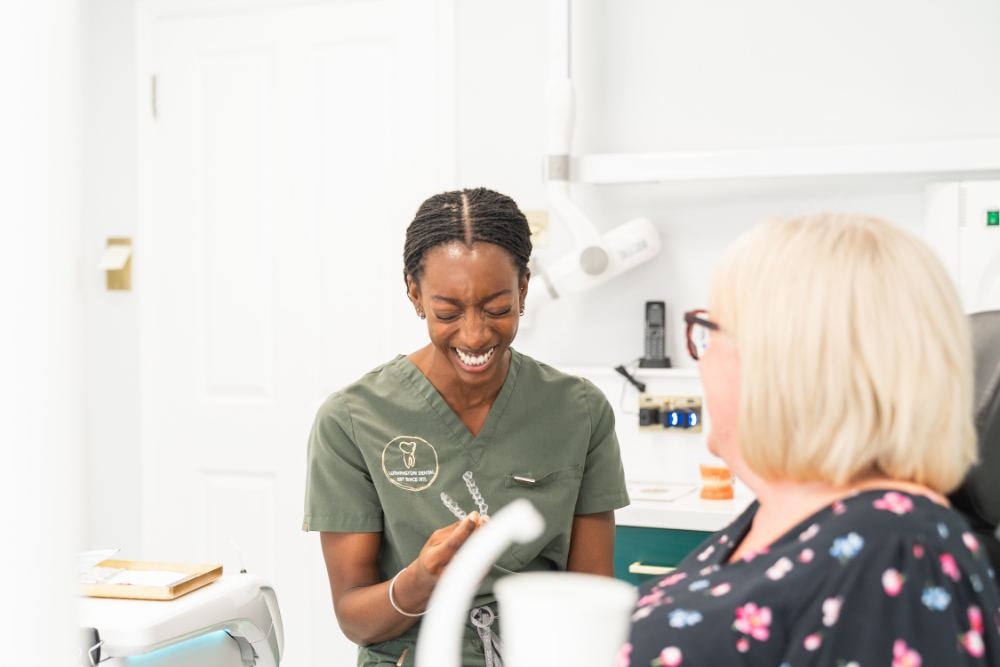
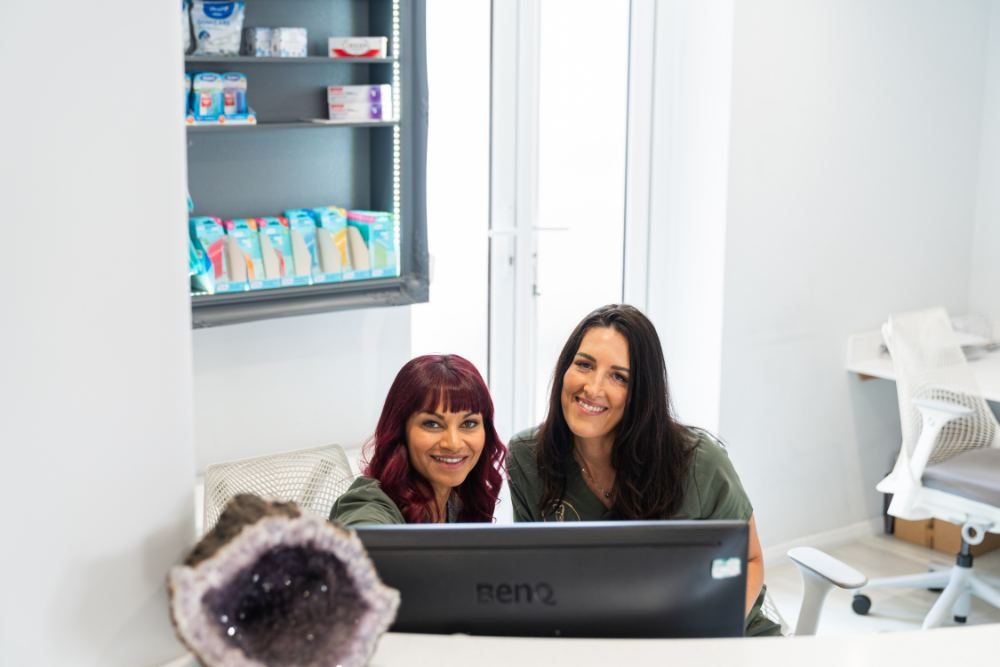
Refresh smile-page imagery: two new problem cards, reception photo in included
- Is-this-you cards: keep the mirror scene and male consult from the
  implant campaign; replace the two teal-room shots with fresh frames
  (patient and clinician smiling at the screen; patient laughing with
  a hand mirror)
- What's-included photo swapped to the welcoming reception scene

Claude-Session: https://claude.ai/code/session_01JNBacRkaEygM8B1GmyLFjD

diff --git a/smile-makeover.html b/smile-makeover.html
@@ -937,14 +937,14 @@ html.js.can-motion .anim.in .rule-draw, html.js.can-motion .in .rule-draw{ trans
           </div>
         </div>
         <div class="stack-card anim" style="--d:180ms">
-          <div class="media-slot" data-file="assets/problem-4.jpg"><img src="assets/problem-4.jpg" alt="A relaxed patient chatting with her clinician in the treatment room"></div>
+          <div class="media-slot" data-file="assets/smile-problem-3.jpg"><img src="assets/smile-problem-3.jpg" alt="A patient and clinician smiling together at her smile plan on screen"></div>
           <div class="card-body">
             <h3>A little stained or chipped</h3>
             <p>Straightening is only half the story — whitening and bonding bring the whole smile together.</p>
           </div>
         </div>
         <div class="stack-card anim" style="--d:270ms">
-          <div class="media-slot" data-file="assets/problem-3.jpg"><img src="assets/problem-3.jpg" alt="A smiling patient giving a thumbs up in the treatment chair"></div>
+          <div class="media-slot" data-file="assets/smile-problem-4.jpg"><img src="assets/smile-problem-4.jpg" alt="A patient laughing in the treatment chair while checking her smile in a hand mirror"></div>
           <div class="card-body">
             <h3>You avoid the camera</h3>
             <p>Imagine seeing a photo of yourself and actually loving your smile. That's what this day is about.</p>
@@ -1106,7 +1106,7 @@ html.js.can-motion .anim.in .rule-draw, html.js.can-motion .in .rule-draw{ trans
       </div>
       <div>
         <div class="media-slot" data-file="assets/smile-included.jpg" style="margin-bottom:var(--sp-2); min-height:0">
-          <img src="assets/smile-included.jpg" alt="A clinician sharing a laugh with a smiling patient at Lushington Road Dental">
+          <img src="assets/smile-included.jpg" alt="The welcoming reception team at Lushington Road Dental">
         </div>
         <div class="callout">
           <h3>Finding us</h3>
